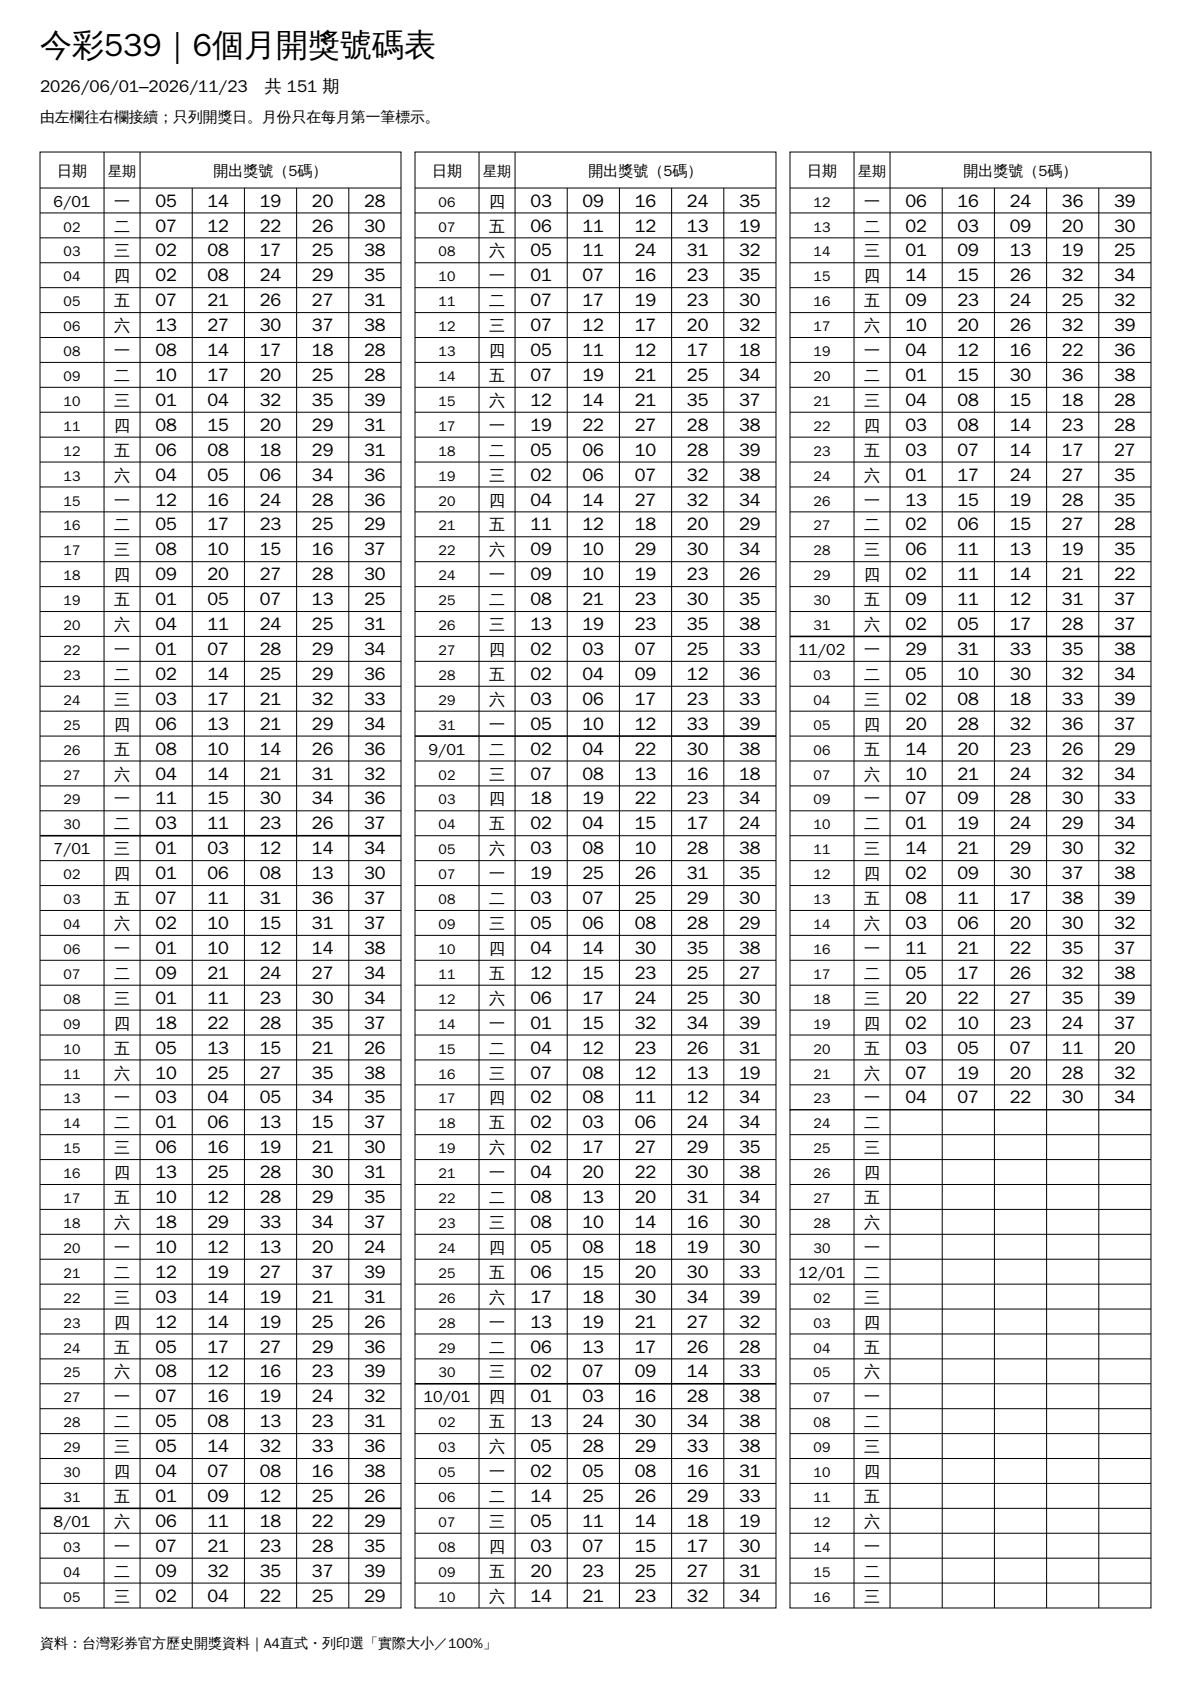
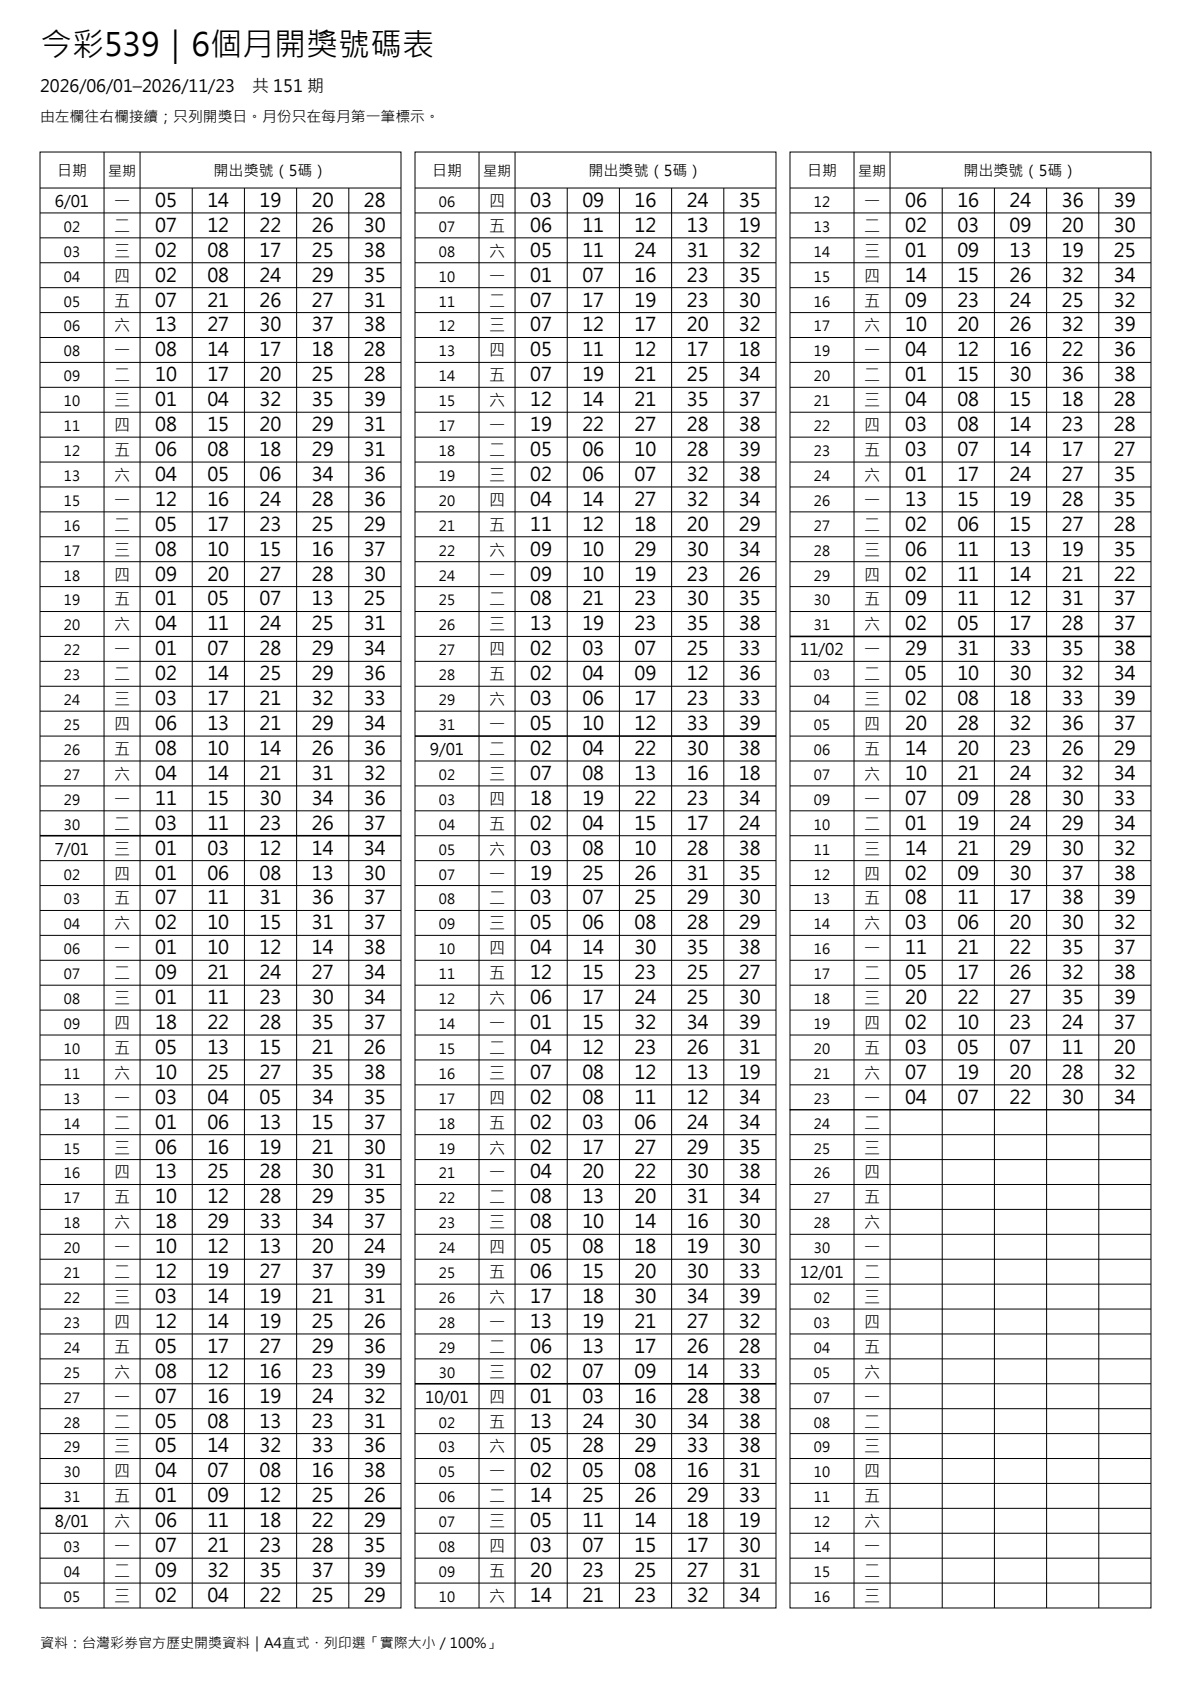
style(report): use 9.45 pt numbers for six-month 539 sheets

diff --git a/docs/539-six-months.html b/docs/539-six-months.html
@@ -1,6 +1,6 @@
 <!doctype html>
 <html lang="zh-Hant"><head><meta charset="utf-8"><meta name="viewport" content="width=device-width,initial-scale=1"><title>今彩539｜6個月開獎號碼表</title><link rel="stylesheet" href="daily539-report.css?v=2"></head>
-<body><main class="report-page"><a href="index.html">← 返回首頁</a><h1>今彩539｜6個月開獎號碼表</h1><p>單張A4直式；只列開獎日，日期與星期分格，月份在每月第一筆標示。最後接續20期的日期、星期及空白獎號。</p><section class="report-card"><p id="sheet-status" aria-live="polite">正在讀取最新表格…</p><div class="report-actions"><a id="sheet-pdf" class="report-download" href="reports/539-6-months/latest.pdf" download>下載6個月版 A4 PDF</a><a id="sheet-open" href="reports/539-6-months/latest.pdf" target="_blank" rel="noopener">開啟 PDF ↗</a></div><a id="sheet-preview" href="reports/539-6-months/latest.pdf" target="_blank" rel="noopener"><img id="sheet-image" src="reports/539-6-months/latest.png" alt="6個月開獎號碼表，最後20期獎號留白" style="display:block;width:100%;height:auto"></a></section><footer>每天隨官方資料更新；台灣時間22:00更新、23:00補同步，排程實際完成時間依GitHub Actions而定。列印選「實際大小／100%」。</footer></main><script>
-async function refreshSheet(){try{const response=await fetch('reports/539-6-months/latest.json',{cache:'no-store'});if(!response.ok)throw Error('unavailable');const data=await response.json();const version=encodeURIComponent(data.cutoff+'-'+data.draw_count);document.getElementById('sheet-status').textContent=`資料期間：${data.start_date}～${data.cutoff}｜已開獎${data.draw_count}期｜接續20期空白獎號`;for(const id of ['sheet-pdf','sheet-open','sheet-preview'])document.getElementById(id).href='reports/539-6-months/latest.pdf?v='+version;document.getElementById('sheet-image').src='reports/539-6-months/latest.png?v='+version;}catch(error){document.getElementById('sheet-status').textContent='最新日期暫時無法讀取，請核對表格上方的資料截止日。';}}
+<body><main class="report-page"><a href="index.html">← 返回首頁</a><h1>今彩539｜6個月開獎號碼表</h1><p>單張A4直式，開獎號碼9.45 pt；只列開獎日，日期與星期分格，月份在每月第一筆標示。最後接續20期的日期、星期及空白獎號。</p><section class="report-card"><p id="sheet-status" aria-live="polite">正在讀取最新表格…</p><div class="report-actions"><a id="sheet-pdf" class="report-download" href="reports/539-6-months/latest.pdf" download>下載6個月版 A4 PDF</a><a id="sheet-open" href="reports/539-6-months/latest.pdf" target="_blank" rel="noopener">開啟 PDF ↗</a></div><a id="sheet-preview" href="reports/539-6-months/latest.pdf" target="_blank" rel="noopener"><img id="sheet-image" src="reports/539-6-months/latest.png" alt="6個月開獎號碼表，最後20期獎號留白" style="display:block;width:100%;height:auto"></a></section><footer>每天隨官方資料更新；台灣時間22:00更新、23:00補同步，排程實際完成時間依GitHub Actions而定。列印選「實際大小／100%」。</footer></main><script>
+async function refreshSheet(){try{const response=await fetch('reports/539-6-months/latest.json',{cache:'no-store'});if(!response.ok)throw Error('unavailable');const data=await response.json();const version=encodeURIComponent(data.cutoff+'-'+data.draw_count+'-'+(data.number_font_pt||9));document.getElementById('sheet-status').textContent=`資料期間：${data.start_date}～${data.cutoff}｜已開獎${data.draw_count}期｜接續20期空白獎號`;for(const id of ['sheet-pdf','sheet-open','sheet-preview'])document.getElementById(id).href='reports/539-6-months/latest.pdf?v='+version;document.getElementById('sheet-image').src='reports/539-6-months/latest.png?v='+version;}catch(error){document.getElementById('sheet-status').textContent='最新日期暫時無法讀取，請核對表格上方的資料截止日。';}}
 refreshSheet();setInterval(refreshSheet,300000);window.addEventListener('focus',refreshSheet);
 </script></body></html>

diff --git a/scripts/build_539_monthly_sheet.py b/scripts/build_539_monthly_sheet.py
@@ -62,7 +62,7 @@ def make_sheet(months, end_month, draws, output, publish=False):
     rows_per_column = (len(included) + 20) // 3
     data_top = 94
     row_height = (height - 132) / rows_per_column
-    number_size = 10 if months == 3 else 9
+    number_size = 10 if months == 3 else 9.45
     month_starts = {min(row['draw_date'] for row in included if row['draw_date'][:7] == ym)
                     for ym in {row['draw_date'][:7] for row in included}}
     c.setLineWidth(.45)
@@ -129,7 +129,7 @@ def make_sheet(months, end_month, draws, output, publish=False):
     document[0].render(scale=2).to_pil().save(path.with_suffix('.png'))
     document.close()
     path.with_suffix('.json').write_text(json.dumps(dict(months=months, start_date=displayed_start.isoformat(),
-        end_date=end.isoformat(), cutoff=cutoff, draw_count=len(included), blank_draw_rows=20, writing_cells_at_end=100,
+        end_date=end.isoformat(), cutoff=cutoff, draw_count=len(included), blank_draw_rows=20, writing_cells_at_end=100, number_font_pt=number_size,
         draws=sorted(included, key=lambda row: row['draw_date'])), ensure_ascii=False, indent=2) + '\n', encoding='utf-8')
     print(f'{path}: {len(included)} draws, one A4 page')
 
